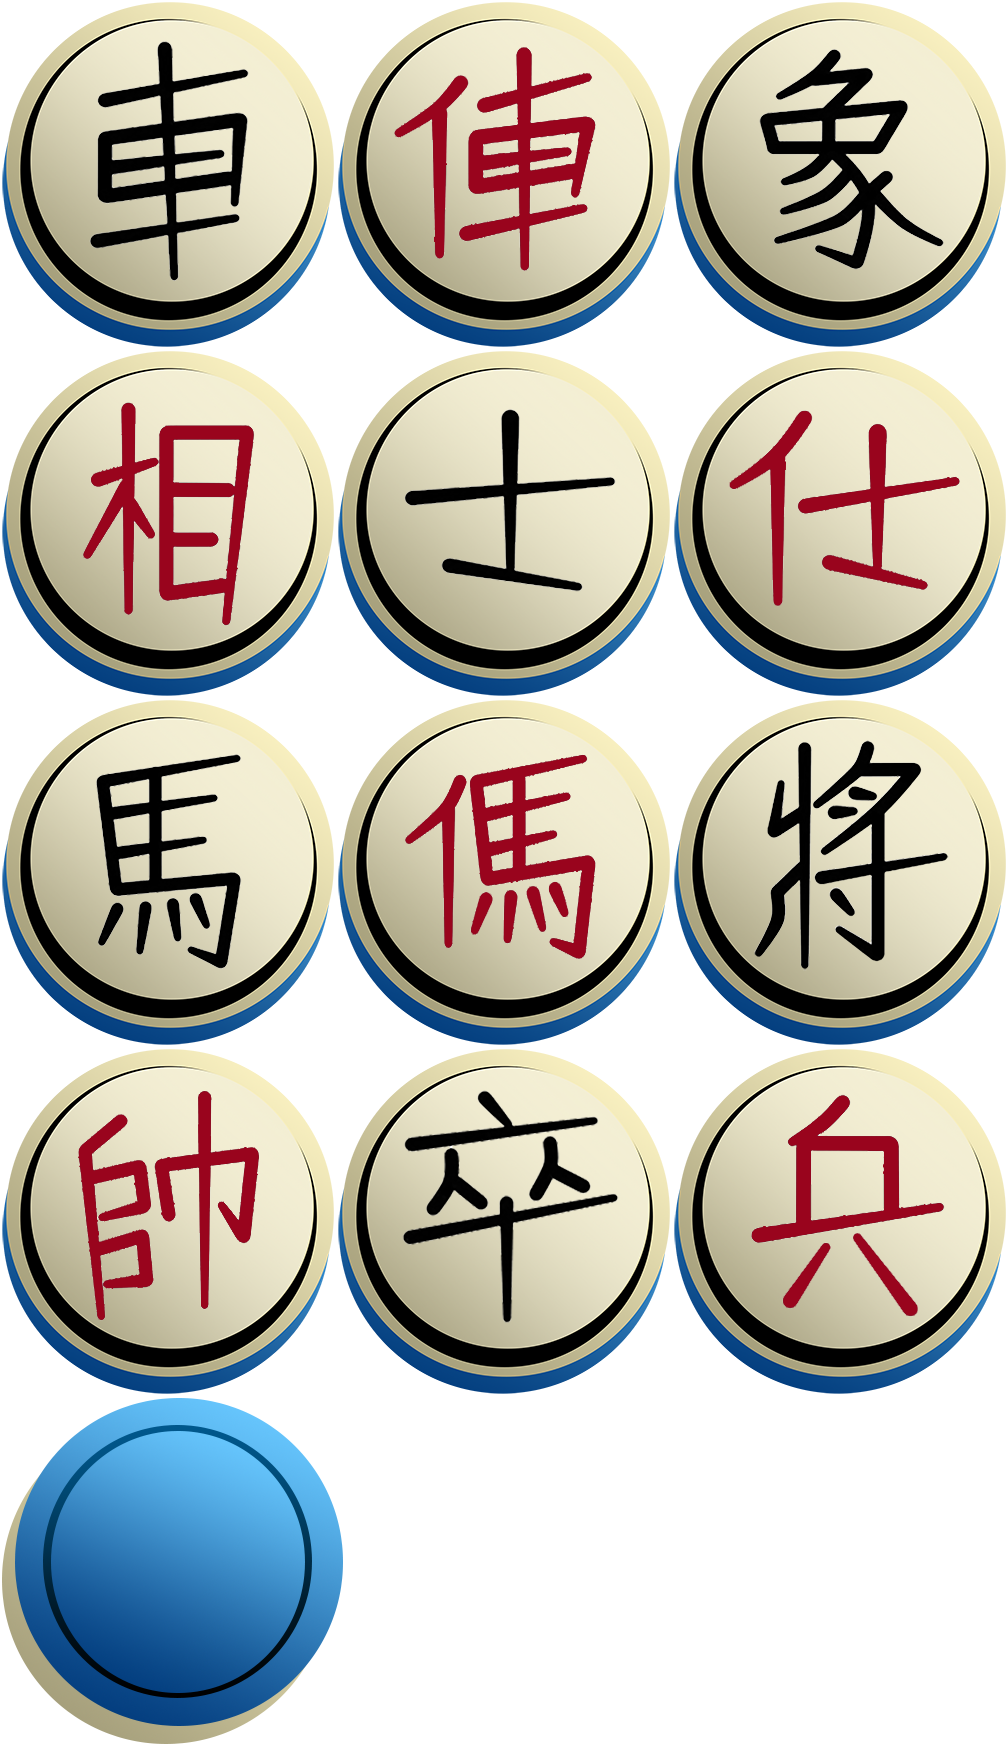
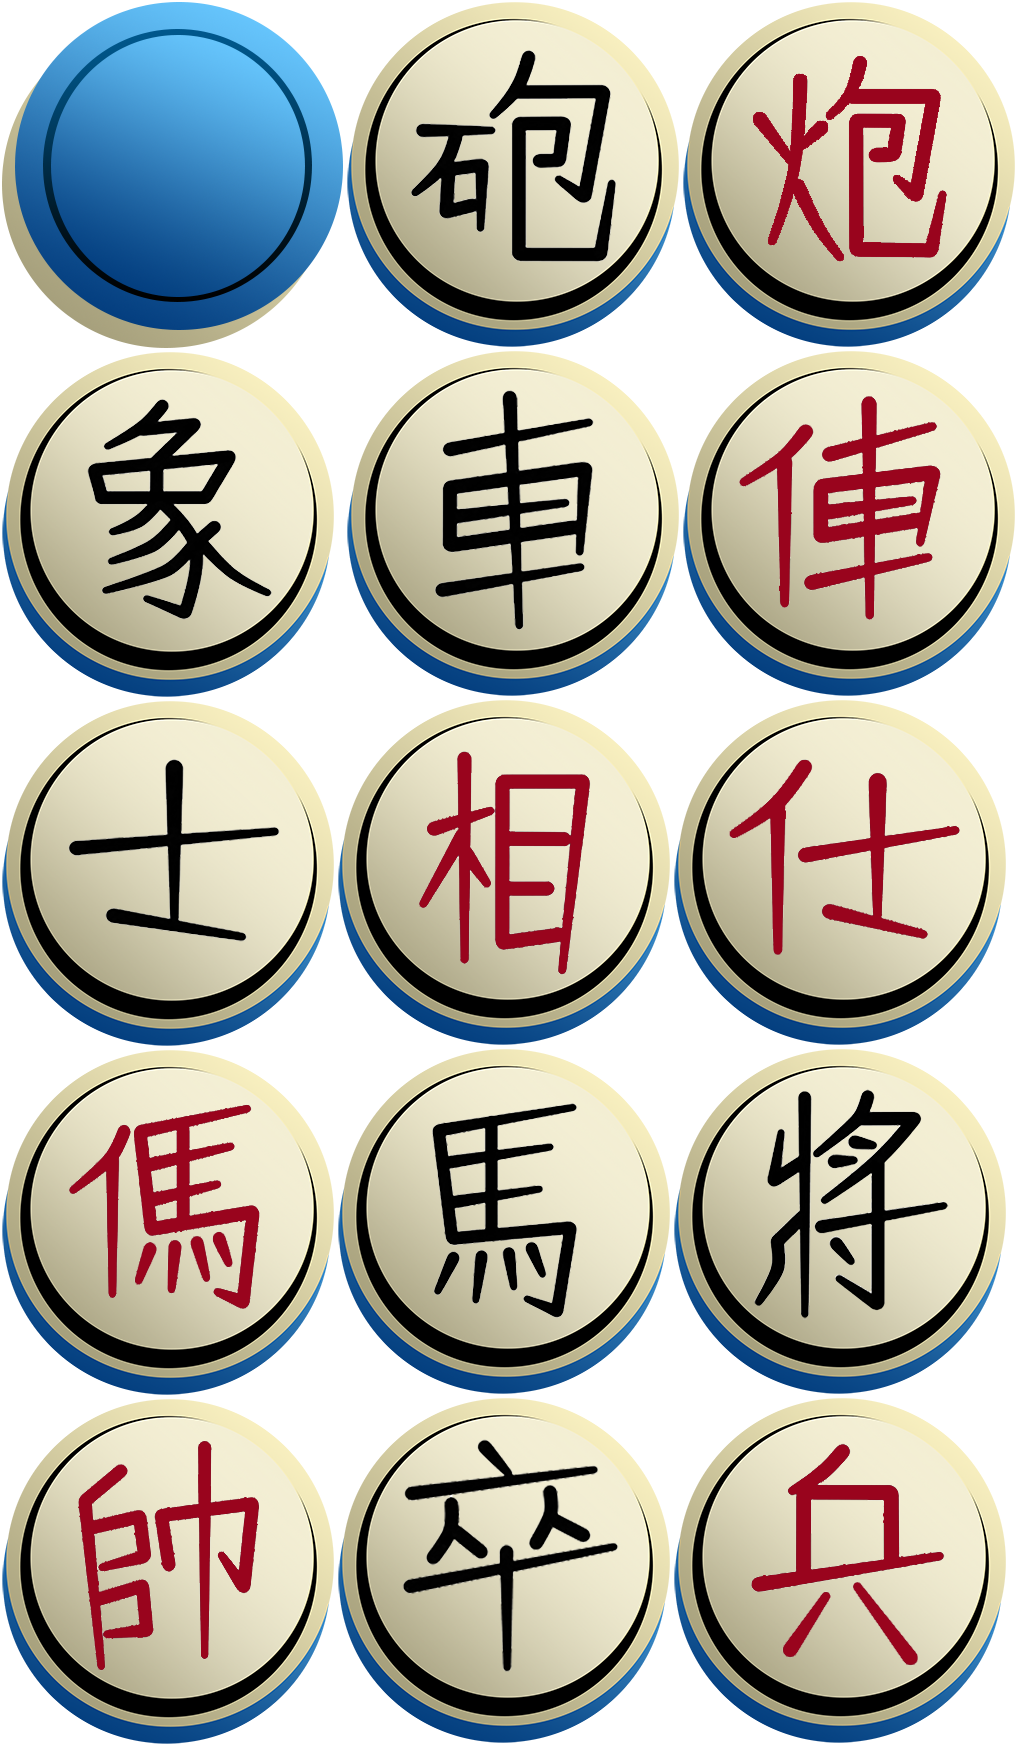
完成圖檔載入 並完成翻牌事件

diff --git a/features/chinese_chess/scenes/mode/Hidden.ts b/features/chinese_chess/scenes/mode/Hidden.ts
@@ -9,7 +9,7 @@ export default class Hidden extends Phaser.Scene {
   private onGameOver!: (data: GameOverSceneData) => void;
   private board: {
     cell: Phaser.GameObjects.Rectangle;
-    chessImage: Phaser.GameObjects.Image;
+    chessImage: Phaser.GameObjects.Image | undefined;
     chessInfo: ChessInfo | undefined;
   }[] = [];
   private gameStateText?: Phaser.GameObjects.Text;
@@ -35,6 +35,11 @@ export default class Hidden extends Phaser.Scene {
 
     if (!this.server) {
       throw new Error('server instance missing');
+    }
+
+    // 在開始遊戲時，決定遊玩順序，由房主決定
+    if (this.server.playerInfo.isMaster) {
+      this.server.createPlayerOrder();
     }
 
     const { width, height } = this.scale;
@@ -75,7 +80,7 @@ export default class Hidden extends Phaser.Scene {
 
         this.board.push({
           cell,
-          chessImage,
+          chessImage: alive ? chessImage : undefined,
           chessInfo: alive ? chessInfo : undefined,
         });
         drawX += size + 31;
@@ -89,7 +94,6 @@ export default class Hidden extends Phaser.Scene {
   };
 
   private handlePlayerTurnChanged(playerIndex: number) {
-    console.log(playerIndex);
     if (
       this.server.playerInfo.playerIndex === playerIndex &&
       !this.gameStateText
@@ -105,13 +109,25 @@ export default class Hidden extends Phaser.Scene {
   }
 
   private handleBoardChanged(chessInfo: Partial<ChessInfo>) {
+    // 拿到新的棋子更新到棋盤上
     this.board.forEach((b) => {
-      if (b.chessInfo && b.chessInfo.id === chessInfo.id) {
+      if (b.chessInfo && b.chessImage && b.chessInfo.id === chessInfo.id) {
         b.chessInfo = {
           ...b.chessInfo,
           ...chessInfo,
         };
-        b.chessImage.update;
+        // 刪除原本的圖
+        b.chessImage.destroy();
+        // 放上新的圖
+        b.chessImage = this.add
+          .image(b.cell.x, b.cell.y, 'chess', `${b.chessInfo.name}.png`)
+          .setDisplaySize(120, 120)
+          .setInteractive()
+          .on(Phaser.Input.Events.GAMEOBJECT_POINTER_UP, () => {
+            // this.server.setSelectedChessId(b.chessInfo?.id)
+            console.log('select');
+          });
+        // b.chessImage.update;
         // FIXME: Change image...
         // b.chessImage.setFillStyle(0xffffff);
       }

diff --git a/features/chinese_chess/scenes/Bootstrap.ts b/features/chinese_chess/scenes/Bootstrap.ts
@@ -3,7 +3,7 @@ import Server from 'features/chinese_chess/ChineseChessServer';
 import { GameOverSceneData } from 'models/Scenes';
 import { ChessInfo } from '../models/ChineseChessState';
 
-// 決定要使用哪個場景
+/** 決定要使用哪個場景 */
 export default class Bootstrap extends Phaser.Scene {
   private server!: Server;
   constructor() {
@@ -12,12 +12,9 @@ export default class Bootstrap extends Phaser.Scene {
 
   init() {
     this.server = new Server();
+    // 初始化 callback 方法
     this.server.onAllPlayersLoaded(this.handleAllPlayersLoaded, this);
     this.server.onGameDataLoaded(this.handleGameDataLoaded, this);
-  }
-
-  create() {
-    this.createNewGame();
   }
 
   private handleAllPlayersLoaded(isLoaded: boolean) {
@@ -27,19 +24,13 @@ export default class Bootstrap extends Phaser.Scene {
   }
 
   private handleGameDataLoaded(chineseChesses: ChessInfo[]) {
+    // 遊戲資料載入完成才起場景
     this.scene.launch('hidden', {
       chineseChesses,
       server: this.server,
       onGameOver: this.handleGameOver,
     });
   }
-
-  private createNewGame = () => {
-    // 在開始遊戲時，決定遊玩順序，由房主決定
-    if (this.server.playerInfo.isMaster) {
-      this.server.createPlayerOrder();
-    }
-  };
 
   private handleGameOver = (data: GameOverSceneData) => {
     this.scene.stop('hidden');

diff --git a/features/chinese_chess/ChineseChessServer.ts b/features/chinese_chess/ChineseChessServer.ts
@@ -11,18 +11,25 @@ enum ChessInfoChangeList {
 }
 
 const TOTAL_CHESS_COUNT = 32;
+/** 接收與傳送後端事件 */
 export default class Server extends BaseServer {
+  private selectedChessId?: number;
+
   constructor() {
     super();
     this.handleStateChange();
   }
 
-  get IsYourTurn() {
+  get isYourTurn() {
     if (this.playerInfo.playerIndex !== this.room.state.activePlayer) {
       this.showAlert('不是你的回合！');
       return false;
     }
     return true;
+  }
+
+  set setSelectedChessId(id: number) {
+    this.selectedChessId = id;
   }
 
   getGameData() {
@@ -33,21 +40,21 @@ export default class Server extends BaseServer {
   }
 
   flipChess(id: number) {
-    if (!this.IsYourTurn) {
+    if (!this.isYourTurn) {
       return;
     }
     this.room.send(ChineseChessMessage.FlipChess, { id });
   }
 
   moveChess(id: number, targetX: number, targetY: number) {
-    if (!this.IsYourTurn) {
+    if (!this.isYourTurn) {
       return;
     }
     this.room.send(ChineseChessMessage.MoveChess, { id, targetX, targetY });
   }
 
   eatChess(id: number, targetId: number) {
-    if (!this.IsYourTurn) {
+    if (!this.isYourTurn) {
       return;
     }
     this.room.send(ChineseChessMessage.EatChess, { id, targetId });

diff --git a/features/base/BaseServer.ts b/features/base/BaseServer.ts
@@ -7,6 +7,8 @@ import { RoomMessage } from 'models/messages/RoomMessage';
 import { Player } from 'models/Player';
 import { setSnackbar } from 'actions/AppAction';
 import { setShowGameScreen } from 'actions/RoomAction';
+
+/** 共用接收與傳送房間資料，監聽 store state */
 export default class BaseServer {
   public room: ClientRoom<Room>;
   public events = new Phaser.Events.EventEmitter();
@@ -46,7 +48,7 @@ export default class BaseServer {
     this.room = server.room;
     // 監聽 state 的變化
     store.subscribe(this.handleRoomStateChange);
-    // 打給後端載入完成
+    // 打給後端 phaser 環境載入完成
     this.loadedGame();
   }
 

diff --git a/features/chinese_chess/ChineseChessConfig.ts b/features/chinese_chess/ChineseChessConfig.ts
@@ -2,6 +2,7 @@ import { GameInstance } from '@ion-phaser/react';
 import Bootstrap from './scenes/Bootstrap';
 import Hidden from './scenes/mode/Hidden';
 
+// 遊戲設定
 export const ChineseChessConfig: GameInstance = {
   width: innerWidth,
   height: innerHeight,

diff --git a/features/chinese_chess/models/Chess.ts b/features/chinese_chess/models/Chess.ts
@@ -8,7 +8,7 @@ export enum ChessNameBlack {
   Guard = '士',
   Minister = '象',
   Chariot = '車',
-  Cannon = '包',
+  Cannon = '砲',
   Horse = '馬',
   Soldier = '卒',
 }
